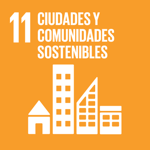
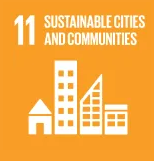
Añadido más en ingles

diff --git a/proyecto-stop-co2-master - Ingles/html/proyecto.html b/proyecto-stop-co2-master - Ingles/html/proyecto.html
@@ -116,7 +116,7 @@
                   href="#SobreElProyecto"
                   class="inline-flex items-center px-2 pt-1 text-base font-medium text-gray-500 border-b-2 border-transparent hover:border-gray-300 hover:text-gray-700 focus:border-green-800"
                 >
-                About the proyect
+                About the proJect
                 </a>
                 <a
                   href="#Actividades"
@@ -163,7 +163,7 @@
             <a
               href="#SobreElProyecto"
               class="block py-2 pl-3 pr-4 text-base font-medium text-gray-500 border-l-4 border-transparent hover:bg-gray-50 hover:border-gray-300 hover:text-gray-700 focus:border-green-800 focus:bg-green-50"
-              >About the proyect</a
+              >About the proJect</a
             >
             <a
               href="#Actividades"
@@ -214,7 +214,7 @@
               <h2
                 class="text-4xl font-semibold tracking-wide uppercase colorVerde"
               >
-              About the proyect 
+              About the project 
               </h2>
             </div>
             <div
@@ -325,10 +325,8 @@
                         ></path>
                       </svg>
                       <p class="relative pl-5">
-                        CI Cuatrovientos es una sociedad cooperativa que posee
-                        plena capacidad sobre su estructura empresarial y
-                        contabiliza el 100% de sus emisiones atribuibles a las
-                        actividades sobre las que ejerce el control.
+                        CI Cuatrovientos is a co-operative society that has full control over its business 
+                        structure and records 100% of its emissions attributable to the activities over which it exercises control.
                       </p>
                     </div>
                   </div>
@@ -352,7 +350,7 @@
           <h3
             class="text-lg font-semibold tracking-wide text-center uppercase colorVerde"
           >
-            GOALS ODS OF THE PROYECT
+            SDG OF THE PROJECT
           </h3>
           <div class="px-4 py-12 mx-auto max-w-7xl sm:px-6 lg:px-8">
             <div class="grid grid-cols-2 gap-8 md:grid-cols-6 lg:grid-cols-5">
@@ -428,11 +426,9 @@
                 class="relative max-w-3xl mx-auto text-2xl font-medium leading-9 text-center text-gray-900"
               >
                 <p class="text-white">
-                  Proponemos la participación de la comunidad educativa, a
-                  través de procesos y metodologías activas que desarrollen la
-                  reflexión, colaboración y responsabilidad que, junto con el
-                  asesoramiento técnico, contribuyan a la creación de hábitos de
-                  vida sostenibles.
+                  We propose the participation of the educational community, through active 
+                  processes and methodologies that develop critical thinking, collaboration and 
+                  responsibility. contributto the creation of sustainable living habits.
                 </p>
               </div>
             </div>
@@ -480,7 +476,7 @@
                     ></path>
                   </svg>
                   <span class="ml-2"
-                    >Actividad aplicando la metodología ACBP
+                    > Employing the methodology CPBL
                   </span>
                 </figcaption>
               </figure>
@@ -495,7 +491,7 @@
 
             <p class="mt-3">
               In Cuatrovientos we have been involved in the #StopCO2 project. During the duration of the 
-              project we are doing various activities with the students, implementing the methodology ACBP.
+              project we are doing various activities with the students, implementing the methodology CPBL.
             </p>
             <div class="flex mt-8">
               <div class="flex-shrink-0">
@@ -908,12 +904,12 @@
                 <h2
                   class="mb-2 text-3xl font-medium leading-8 tracking-tight text-gray-900 sm:text-4xl"
                 >
-                  Semana Cultural
+                  Cultural week
                 </h2>
                 <p
                   class="text-base font-semibold tracking-wide text-green-600 uppercase"
                 >
-                  Galería
+                  Gallery
                 </p>
                 <p class="max-w-2xl mt-4 text-xl text-gray-500 lg:mx-auto">
                   During the week of 1-5 February, several activities related to the Stop CO2 project
@@ -1174,7 +1170,7 @@
               <li>CENTRO INTEGRADO CUATROVIENTOS</li>
               <li>Tel: (34) 948 12 41 29</li>
               <li>info@cuatrovientos.org</li>
-              <li class="text-lg font-medium">Address:</li>
+              <li class="text-lg font-medium">CPBL:</li>
               <li>31012, C. del Muelle, 3, 31012 Pamplona, Navarra</li>
             </ul>
           </div>

diff --git a/proyecto-stop-co2-master - Ingles/html/erasmus.html b/proyecto-stop-co2-master - Ingles/html/erasmus.html
@@ -167,16 +167,16 @@
         </p>
         <ul class="mt-20 ml-10 md:ml-40  text-lg text-left list-disc center-text">
           <li>
-            Más información sobre El SEPIE:
+            Discover more about EL SEPIE
             <a href="http://www.sepie.es/" target="_blank" class="link">aquí</a>
           </li>
           <li>
-            Más información sobre Acción Clave KA202:
+            Discover more about keys action:
             <a
               href="http://sepie.es/formacion-profesional/convocatoria.html#KA202"
               target="_blank"
               class="link"
-              >aquí</a
+              >here</a
             >
           </li>
         </ul>
@@ -214,12 +214,12 @@
           <div
             class="text-center col-span-full md:col-start-10 md:text-left md:col-span-6"
           >
-            <p class="pb-1 text-lg font-medium">Contacto:</p>
+            <p class="pb-1 text-lg font-medium">Contact:</p>
             <ul>
               <li>CENTRO INTEGRADO CUATROVIENTOS</li>
               <li>Tel: (34) 948 12 41 29</li>
               <li>info@cuatrovientos.org</li>
-              <li class="text-lg font-medium">Dirección:</li>
+              <li class="text-lg font-medium">Address:</li>
               <li>31012, C. del Muelle, 3, 31012 Pamplona, Navarra</li>
             </ul>
           </div>
@@ -230,10 +230,10 @@
           >
             <span>©2021 CI Cuatrovientos</span>
             <a href="https://www.cuatrovientos.org/politica-privacidad/">
-              <span>Política de Privacidad</span>
+              <span>Politics of privacy</span>
             </a>
             <a href="https://www.cuatrovientos.org/politica-de-cookies/">
-              <span>Política de cookies</span>
+              <span>Politics of cookies</span>
             </a>
           </div>
           <div class="flex justify-center pt-4 space-x-4 lg:pt-0 lg:col-end-13">

diff --git a/proyecto-stop-co2-master - Ingles/index.html b/proyecto-stop-co2-master - Ingles/index.html
@@ -157,7 +157,6 @@
         </div>
       </nav>
     </header>
-    
     <main>
       <!-- Inicio -->
       <section
@@ -257,8 +256,8 @@
                   <div class="p-5">
                     <h3 class="text-2xl">About the project</h3>
                     <p class="text-gray-700">
-                      En esta fase inicial del proyecto identificamos y
-                      analizamos el proyecto, su organización, Objetivos...
+                      In this initial phase of the project, we identify 
+                      and analyse the project, its structure, objectives...
                     </p>
                   </div>
                 </div>
@@ -319,8 +318,7 @@
                   <div class="p-5">
                     <h3 class="text-2xl">Activities</h3>
                     <p class="text-gray-700">
-                      En esta fase ejecutamos diversas actividades relacionadas
-                      con el proyecto para llegar a nuestros objetivos.
+                      In this phase we implement various project related activities to achieve our objectives.
                     </p>
                   </div>
                 </div>
@@ -365,8 +363,7 @@
                   <div class="p-5">
                     <h3 class="text-2xl">Gallery of the activities</h3>
                     <p class="text-gray-700">
-                      En las actividades realizadas en marco del proyecto surgen
-                      diversos resultados tangibles.
+                      A number of different results have been achieved as a result of the project's activities.
                     </p>
                   </div>
                 </div>
